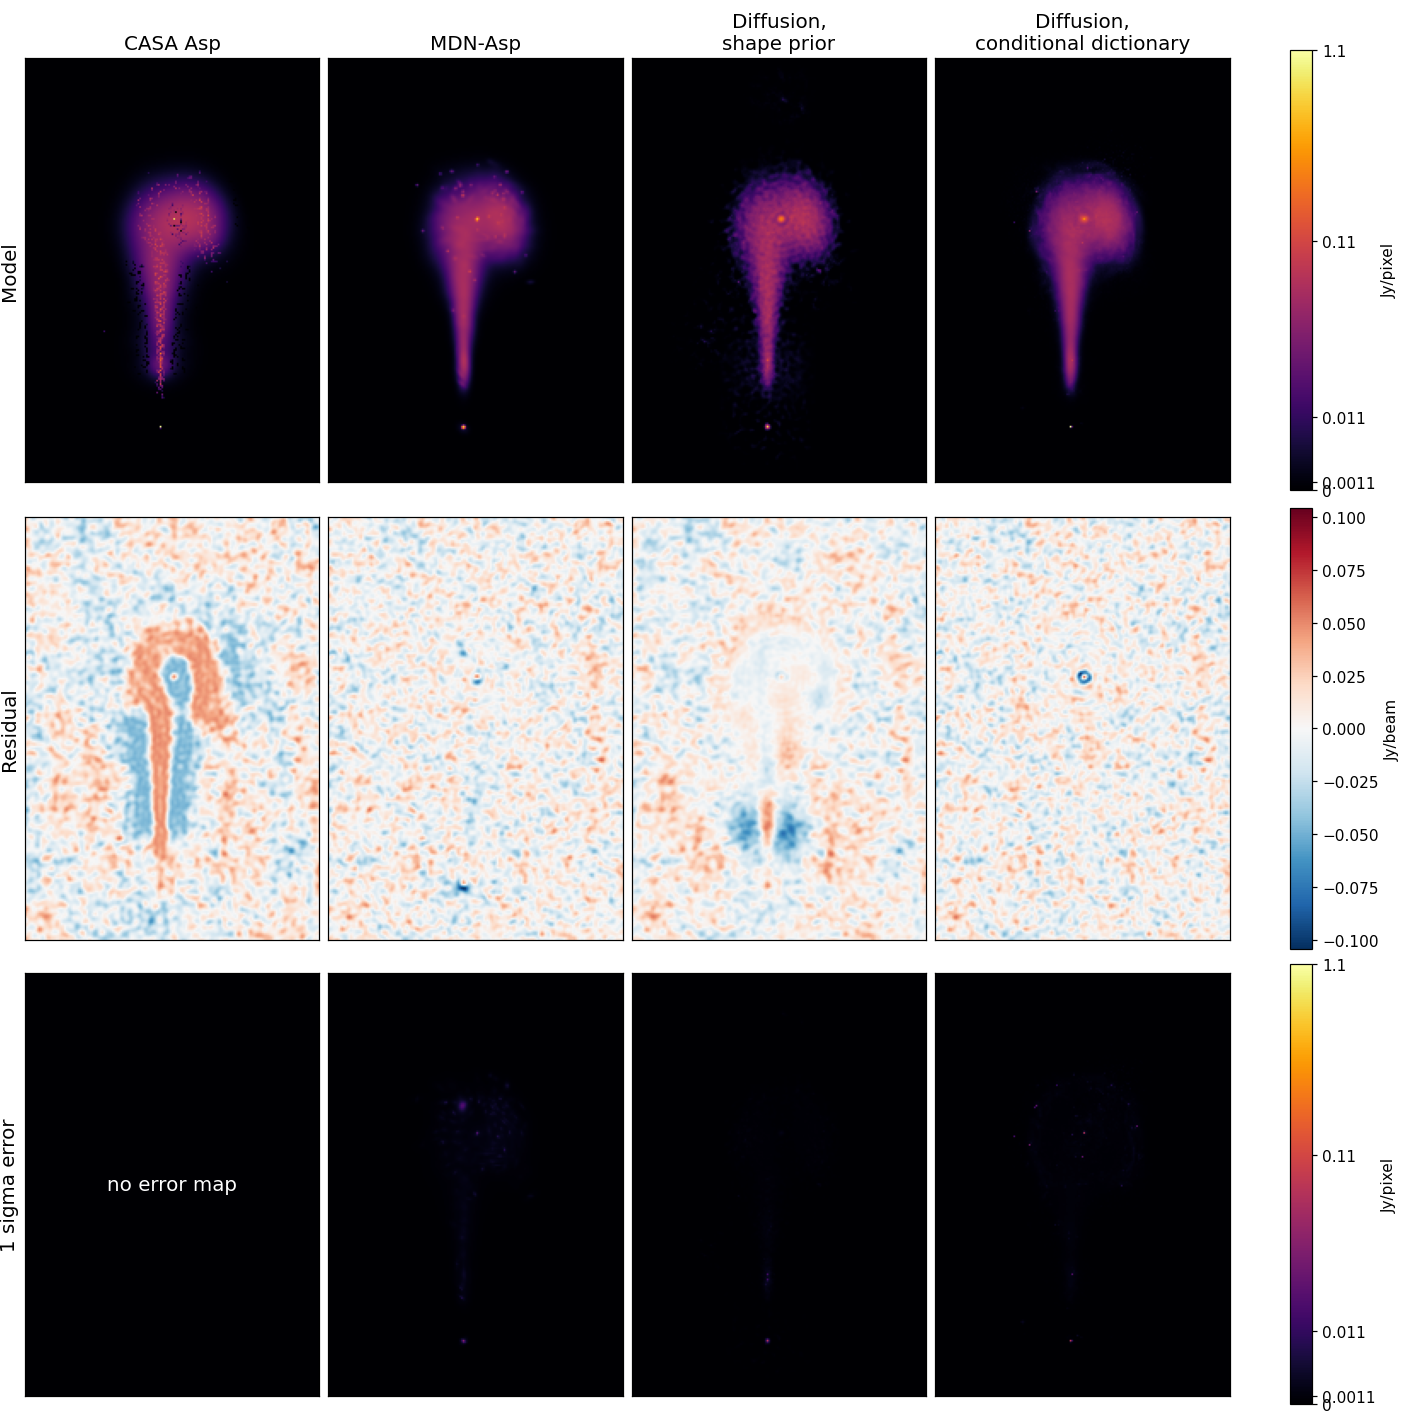
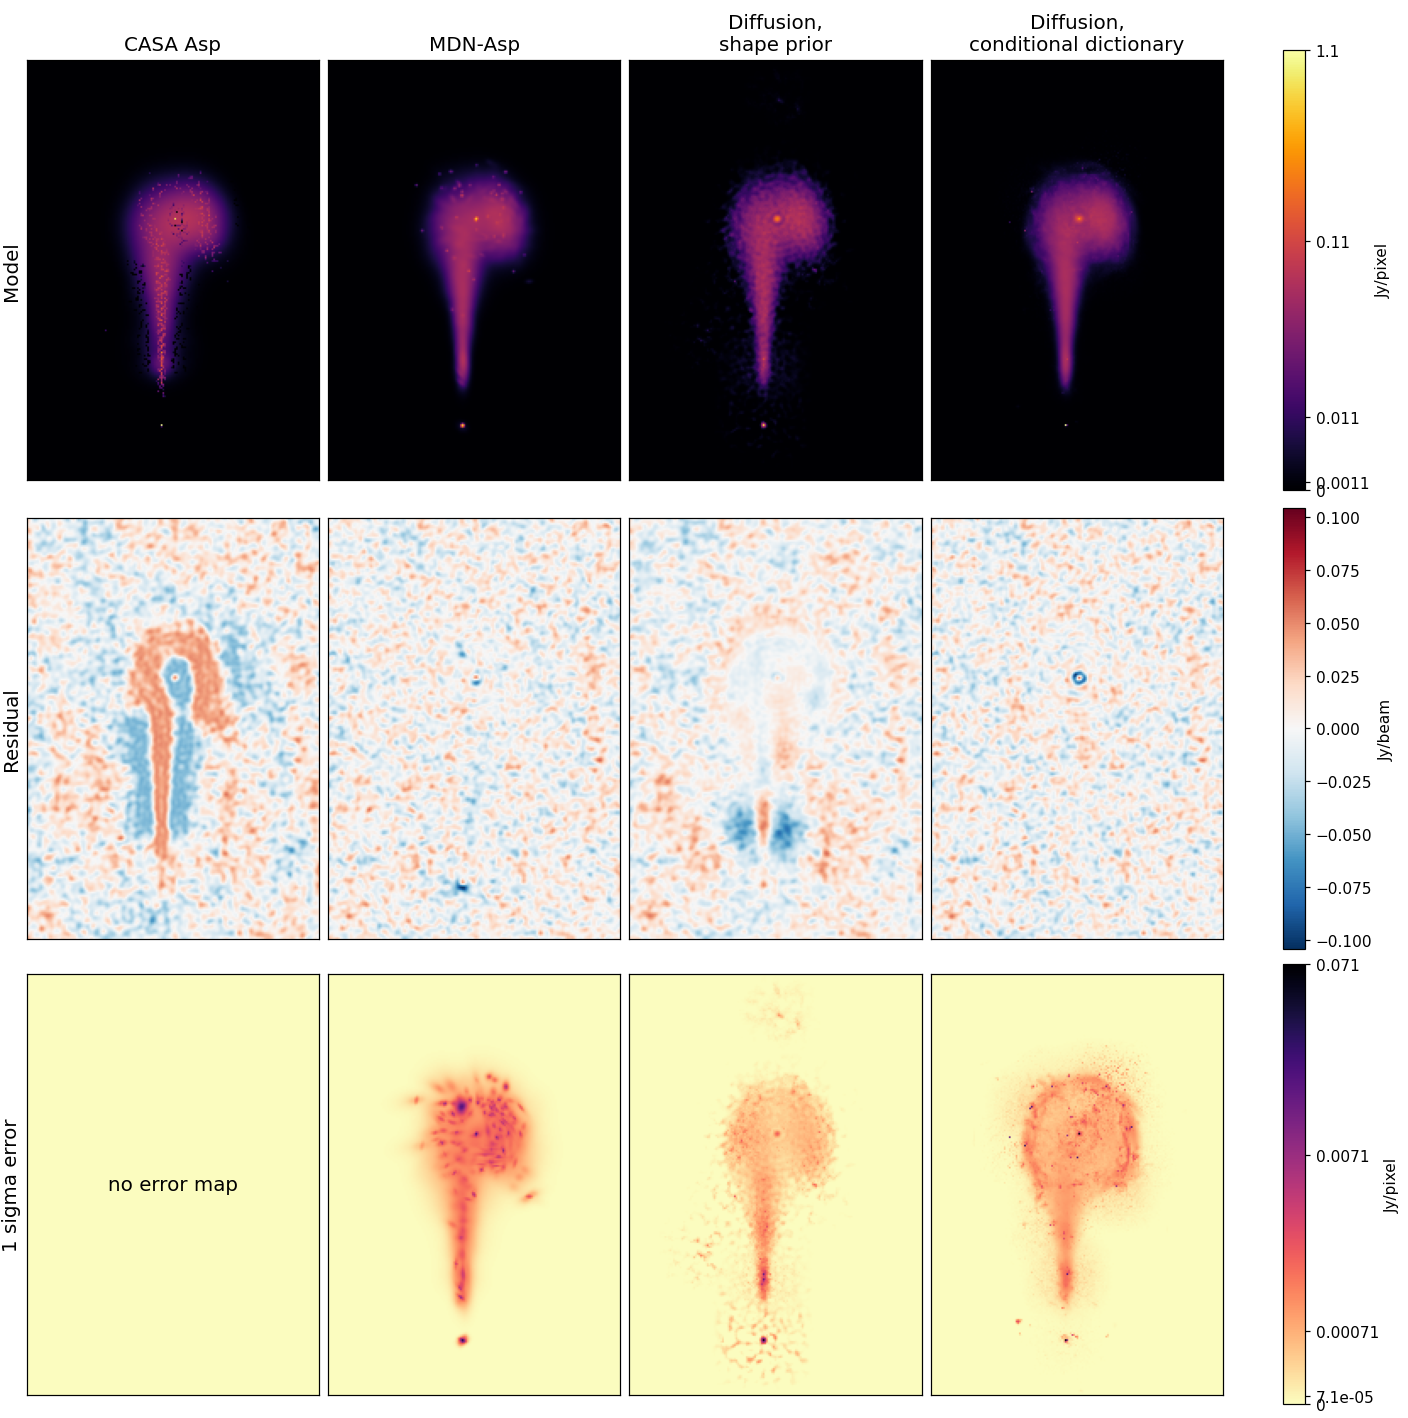
Jet error row on its own scale

diff --git a/README.md b/README.md
@@ -585,7 +585,7 @@ tclean(vis='sim_data_VLA.ms', imagename='jet', imsize=512, cell='12.0arcsec', sp
 
 ![Simulated jet results](docs/jet_compare_masked.png)
 
-Simulated jet with lobes, 128 Jy true flux. CASA Asp, MDN-Asp and the two diffusion proposers with the same mask and loop settings. Rows are the model, the residual, and the 1 sigma error of each component with the others held fixed, on the same scale as the model. CASA Asp has no error map.
+Simulated jet with lobes, 128 Jy true flux. CASA Asp, MDN-Asp and the two diffusion proposers with the same mask and loop settings. Rows are the model, the residual, and the 1 sigma error of each component with the others held fixed, on its own scale. CASA Asp has no error map.
 
 ## Error maps
 
